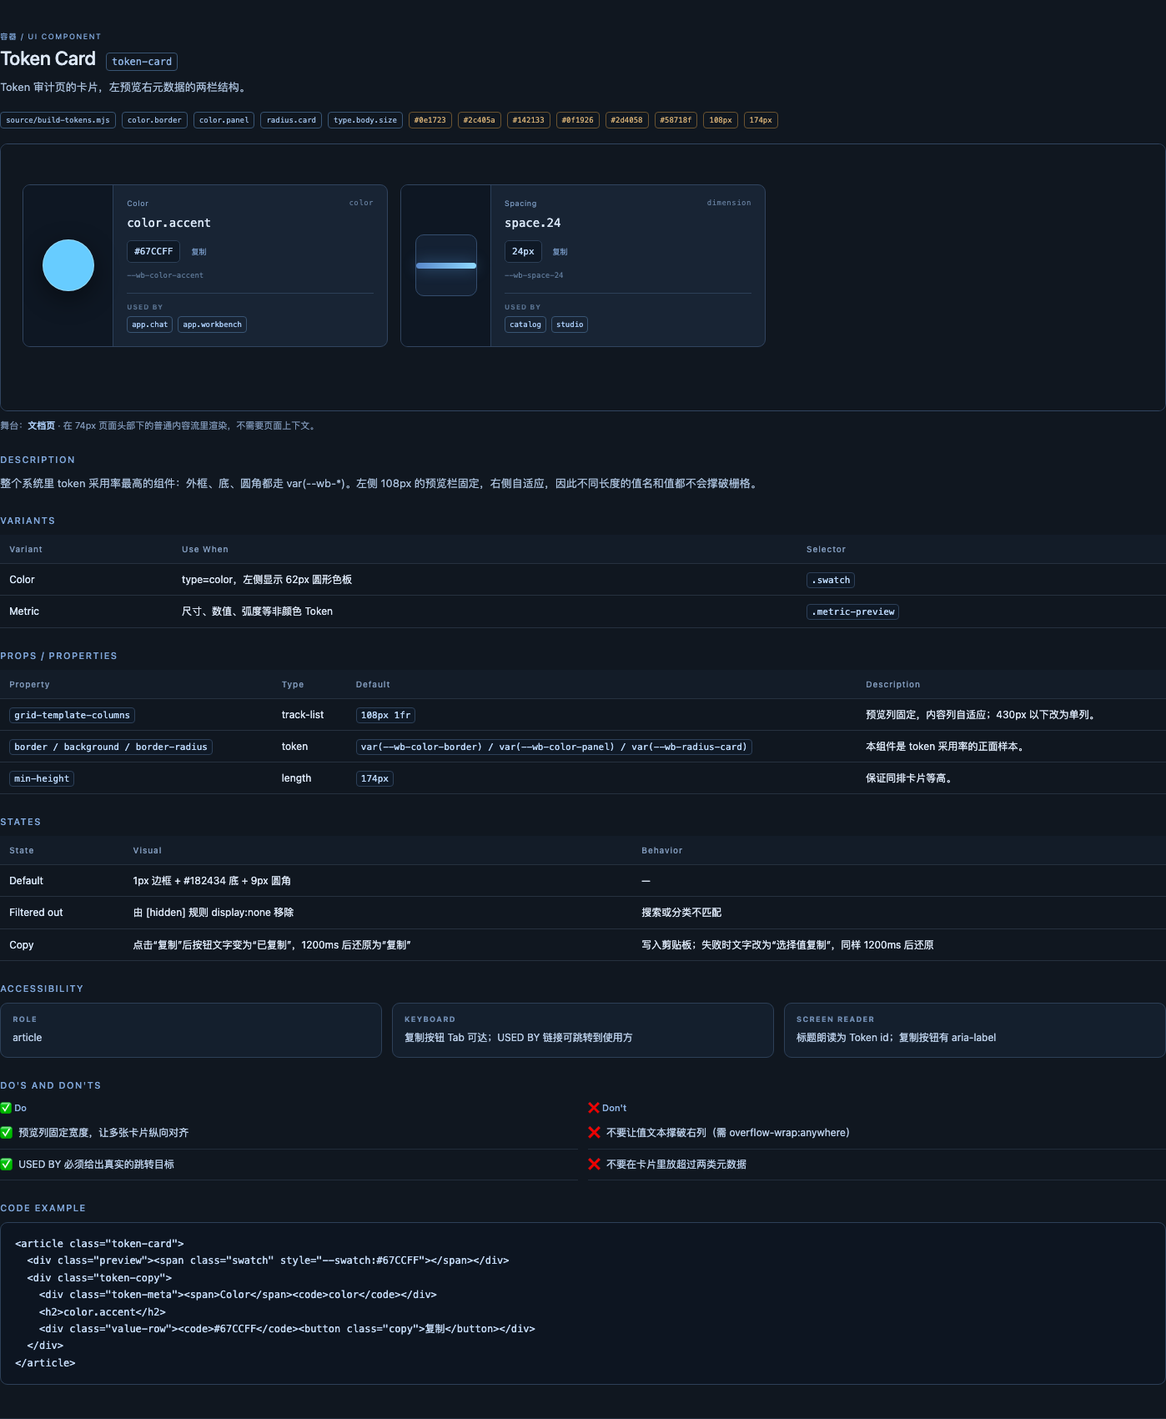
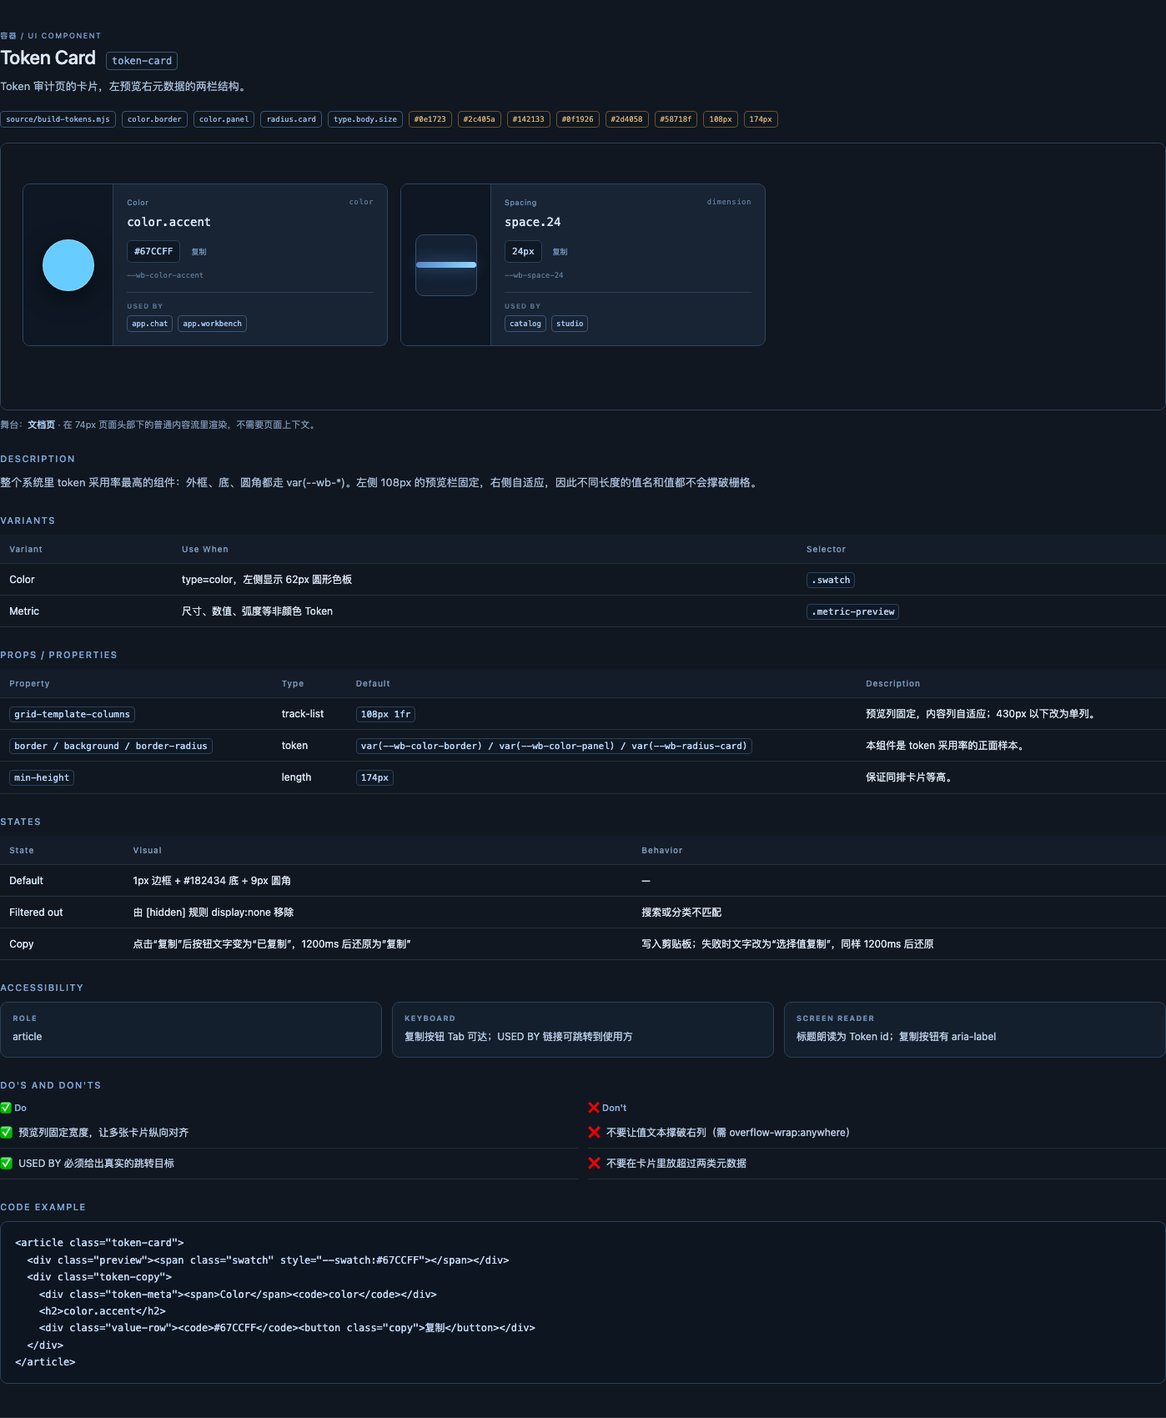
Fix the stale prose the markup change left behind
CodeRabbit caught two contradictions I introduced. When the selected state moved
onto ARIA I updated each component's markup, example and screenReader note, but
not its Props row or Description — so components.html, which is the component
source of truth, published both the new markup and the old claim about it.

- nav-item's Props row was still titled "aria-pressed / .active" and said the
  source does not use aria-current. It never used aria-pressed, and it does use
  aria-current now.
- filter-chip's Description still said it uses .active "while the homepage uses
  aria-pressed". Both use the same combination now.

Sweeping the other components I had touched turned up a third: control-button
claimed to be the only control that writes its pressed state into aria-pressed.
That stopped being true the moment the switcher, the list rows and the chips
gained the attribute. Its actual distinction is narrower and still holds — it is
the only one whose *style rule* keys off the attribute selector rather than
`.active`, which is why its state and semantics cannot drift apart.

The prop text also lost a pair of markdown asterisks: descriptions render through
esc() as plain text, so they would have shown up literally.

Evidence: verify:system 47/47, parity 32/32, check:docs green.

diff --git a/components.html b/components.html
@@ -4464,7 +4464,7 @@ a:focus-visible,button:focus-visible,input:focus-visible{outline:2px solid var(-
   <div class="ds-body">
     <section class="ds-block"><h4>Description</h4><p>首页 .nav 里的按钮，可带 19px 图标。选中态不是颜色变化而是形状变化：未选中项是透明背景的文字按钮，当前项变成有底色的胶囊。这样在复杂的三维背景上，位置感比颜色更可靠。</p></section>
     <section class="ds-block"><h4>Variants</h4><table><thead><tr><th>Variant</th><th>Use When</th><th>Selector</th></tr></thead><tbody><tr><td>Default</td><td>未选中的页面项</td><td><code>.nav button</code></td></tr><tr><td>Active</td><td>当前页面或当前打开的对话框</td><td><code>.nav .active</code></td></tr></tbody></table></section>
-    <section class="ds-block"><h4>Props / Properties</h4><table><thead><tr><th>Property</th><th>Type</th><th>Default</th><th>Description</th></tr></thead><tbody><tr><td><code>height</code></td><td>length</td><td><code>40px</code></td><td>按钮高度，图标用 vertical-align:middle 对齐。</td></tr><tr><td><code>gap</code></td><td>length</td><td><code>34px（导航）/ 10px（图标与文字）</code></td><td>项间距与项内间距是两套值。</td></tr><tr><td><code>border-radius</code></td><td>length</td><td><code>25px</code></td><td>仅选中态生效。</td></tr><tr><td><code>aria-pressed / .active</code></td><td>state</td><td><code>—</code></td><td>源码用 class 表达选中，未使用 aria-current。</td></tr></tbody></table></section>
+    <section class="ds-block"><h4>Props / Properties</h4><table><thead><tr><th>Property</th><th>Type</th><th>Default</th><th>Description</th></tr></thead><tbody><tr><td><code>height</code></td><td>length</td><td><code>40px</code></td><td>按钮高度，图标用 vertical-align:middle 对齐。</td></tr><tr><td><code>gap</code></td><td>length</td><td><code>34px（导航）/ 10px（图标与文字）</code></td><td>项间距与项内间距是两套值。</td></tr><tr><td><code>border-radius</code></td><td>length</td><td><code>25px</code></td><td>仅选中态生效。</td></tr><tr><td><code>aria-current / .active</code></td><td>state</td><td><code>—</code></td><td>class 负责选中样式，当前项另由 aria-current=&quot;page&quot; 暴露给读屏。</td></tr></tbody></table></section>
     <section class="ds-block"><h4>States</h4><table><thead><tr><th>State</th><th>Visual</th><th>Behavior</th></tr></thead><tbody><tr><td>Default</td><td>无背景，文字 14px #f4f5f8（继承 body）</td><td>hover 无背景变化</td></tr><tr><td>Active</td><td>background #282f43，border-radius 25px，min-width 94px 居中，padding 0 24px</td><td>—</td></tr><tr><td>Focus</td><td>outline 2px #a6d6ff，offset 6px</td><td>键盘可达</td></tr></tbody></table></section>
     <section class="ds-block"><h4>Accessibility</h4><div class="ds-a11y">
       <div><b>ROLE</b><p>button（原生 &lt;button&gt;），容器 nav 带 aria-label</p></div>
@@ -4550,7 +4550,7 @@ a:focus-visible,button:focus-visible,input:focus-visible{outline:2px solid var(-
   <div class="ds-frame ds-frame--scene"><div class="ds-stage ds-stage--home ds-pv-control-button"><div class="viewport"><main class="scene" aria-label="Control Button 预览"><div class="controls is-open" style="opacity:1;visibility:visible;transform:none"><p>拖动旋转 · 滚轮缩放<br>点击物体，探索每一层</p><div class="control-buttons"><button>初始视角</button><button aria-pressed="false">自动旋转</button><button aria-pressed="true">模型线框</button><button aria-pressed="false">暂停光流</button></div></div></main></div></div></div>
   <p class="ds-stage-note">舞台：<b>首页场景</b> · 在 1536 × 1024 的 .scene 内按原坐标绝对定位渲染，预览按比例缩放。</p>
   <div class="ds-body">
-    <section class="ds-block"><h4>Description</h4><p>一组可切换的视图开关（自动旋转、模型线框、暂停光流）。这是全站唯一把“按下”状态写进 aria-pressed 的控件，因此样式规则也直接挂在属性选择器上——状态和语义是同一条规则，不会漂移。</p></section>
+    <section class="ds-block"><h4>Description</h4><p>一组可切换的视图开关（自动旋转、模型线框、暂停光流）。全站唯一把选中样式直接挂在属性选择器上的控件（.control-buttons button[aria-pressed=&quot;true&quot;]）；其余控件的选中态一律是 .active 管样式、ARIA 管语义。写进属性选择器意味着状态和语义是同一条规则，不会漂移。</p></section>
     <section class="ds-block"><h4>Variants</h4><table><thead><tr><th>Variant</th><th>Use When</th><th>Selector</th></tr></thead><tbody><tr><td>Toggle</td><td>有开/关两态的视图开关，带 aria-pressed</td><td><code>.control-buttons button[aria-pressed]</code></td></tr><tr><td>Action</td><td>一次性动作（初始视角、进入编辑器），无 aria-pressed</td><td><code>.control-buttons button</code></td></tr></tbody></table></section>
     <section class="ds-block"><h4>Props / Properties</h4><table><thead><tr><th>Property</th><th>Type</th><th>Default</th><th>Description</th></tr></thead><tbody><tr><td><code>padding</code></td><td>length</td><td><code>7px 11px</code></td><td>小尺寸胶囊。</td></tr><tr><td><code>border-radius</code></td><td>length</td><td><code>16px</code></td><td>对应 tokens.js 里的 radius.control，已导出为 --wb-radius-control。</td></tr><tr><td><code>border</code></td><td>border</td><td><code>1px solid #a7c3ea2c</code></td><td>约 17% 透明度的冷色描边。</td></tr><tr><td><code>background</code></td><td>color</td><td><code>#14213460</code></td><td>约 38% 透明度的深蓝，浮在三维场景上方。</td></tr><tr><td><code>aria-pressed</code></td><td>boolean</td><td><code>false</code></td><td>开/关状态，驱动选中样式。同时存在一个 hover 规则，两条规则共用同一样式块。</td></tr></tbody></table></section>
     <section class="ds-block"><h4>States</h4><table><thead><tr><th>State</th><th>Visual</th><th>Behavior</th></tr></thead><tbody><tr><td>Default</td><td>半透明深蓝底 + 17% 冷色描边，文字 11px #b5c9e1</td><td>点击切换</td></tr><tr><td>Hover</td><td>与按下态相同：#335da081 底、#fff 字、#a5c6ff80 边</td><td>过渡 0.2s</td></tr><tr><td>Pressed (aria-pressed=true)</td><td>同 Hover</td><td>保持到再次点击</td></tr><tr><td>Hidden (父级 .controls)</td><td>父级默认 opacity:0 / visibility:hidden / translateY(6px)</td><td>Explore 展开或父级 :focus-within 时恢复</td></tr></tbody></table></section>
@@ -5179,7 +5179,7 @@ a:focus-visible,button:focus-visible,input:focus-visible{outline:2px solid var(-
   <div class="ds-frame"><div class="ds-stage ds-stage--docs ds-pv-filter-chip"><div class="filters" role="group" aria-label="Token 分类"><button class="active" data-group-filter="全部" aria-pressed="true">全部</button><button data-group-filter="Color" aria-pressed="false">Color</button><button data-group-filter="Typography" aria-pressed="false">Typography</button><button data-group-filter="Spacing" aria-pressed="false">Spacing</button><button data-group-filter="3D Material" aria-pressed="false">3D Material</button><button data-group-filter="Camera" aria-pressed="false">Camera</button></div></div></div>
   <p class="ds-stage-note">舞台：<b>文档页</b> · 在 74px 页面头部下的普通内容流里渲染，不需要页面上下文。</p>
   <div class="ds-body">
-    <section class="ds-block"><h4>Description</h4><p>一组互斥的分类筛选钮。和首页 control-button 是同一形态（16px 圆角胶囊）但不同语义：这里用 .active class 表达唯一选中，而首页用 aria-pressed。两处圆角值相同，说明 16px 事实上是这个系统的“胶囊档”。</p></section>
+    <section class="ds-block"><h4>Description</h4><p>一组互斥的分类筛选钮。和首页 control-button 是同一形态（16px 圆角胶囊），选中态也都是 class + aria-pressed 的组合：.active 管样式，aria-pressed 管语义。两处圆角值相同，说明 16px 事实上是这个系统的“胶囊档”。</p></section>
     <section class="ds-block"><h4>Variants</h4><table><thead><tr><th>Variant</th><th>Use When</th><th>Selector</th></tr></thead><tbody><tr><td>Default</td><td>未选中的分类</td><td><code>.filters button</code></td></tr><tr><td>Active</td><td>唯一选中的分类；再点“全部”可复位</td><td><code>.filters button.active</code></td></tr></tbody></table></section>
     <section class="ds-block"><h4>Props / Properties</h4><table><thead><tr><th>Property</th><th>Type</th><th>Default</th><th>Description</th></tr></thead><tbody><tr><td><code>border-radius</code></td><td>length</td><td><code>16px</code></td><td>与首页 .control-buttons button 相同，等于 radius.control。</td></tr><tr><td><code>padding</code></td><td>length</td><td><code>7px 11px</code></td><td>与首页控制按钮完全一致。</td></tr><tr><td><code>font-size</code></td><td>length</td><td><code>10px</code></td><td>比首页的 11px 小一档。</td></tr></tbody></table></section>
     <section class="ds-block"><h4>States</h4><table><thead><tr><th>State</th><th>Visual</th><th>Behavior</th></tr></thead><tbody><tr><td>Default</td><td>1px #38506d 边，底 #162232，文字 #91a9c9</td><td>点击切换分类</td></tr><tr><td>Active</td><td>底 #315986，文字 white，边 #77a8e6</td><td>与搜索框叠加过滤</td></tr><tr><td>Focus</td><td>outline 2px var(--wb-color-accent)，offset 3px</td><td>键盘可达</td></tr></tbody></table></section>

diff --git a/preview/control-button.html b/preview/control-button.html
@@ -150,7 +150,7 @@ body{padding:0}
   <div class="ds-frame ds-frame--scene"><div class="ds-stage ds-stage--home ds-pv-control-button"><div class="viewport"><main class="scene" aria-label="Control Button 预览"><div class="controls is-open" style="opacity:1;visibility:visible;transform:none"><p>拖动旋转 · 滚轮缩放<br>点击物体，探索每一层</p><div class="control-buttons"><button>初始视角</button><button aria-pressed="false">自动旋转</button><button aria-pressed="true">模型线框</button><button aria-pressed="false">暂停光流</button></div></div></main></div></div></div>
   <p class="ds-stage-note">舞台：<b>首页场景</b> · 在 1536 × 1024 的 .scene 内按原坐标绝对定位渲染，预览按比例缩放。</p>
   <div class="ds-body">
-    <section class="ds-block"><h4>Description</h4><p>一组可切换的视图开关（自动旋转、模型线框、暂停光流）。这是全站唯一把“按下”状态写进 aria-pressed 的控件，因此样式规则也直接挂在属性选择器上——状态和语义是同一条规则，不会漂移。</p></section>
+    <section class="ds-block"><h4>Description</h4><p>一组可切换的视图开关（自动旋转、模型线框、暂停光流）。全站唯一把选中样式直接挂在属性选择器上的控件（.control-buttons button[aria-pressed=&quot;true&quot;]）；其余控件的选中态一律是 .active 管样式、ARIA 管语义。写进属性选择器意味着状态和语义是同一条规则，不会漂移。</p></section>
     <section class="ds-block"><h4>Variants</h4><table><thead><tr><th>Variant</th><th>Use When</th><th>Selector</th></tr></thead><tbody><tr><td>Toggle</td><td>有开/关两态的视图开关，带 aria-pressed</td><td><code>.control-buttons button[aria-pressed]</code></td></tr><tr><td>Action</td><td>一次性动作（初始视角、进入编辑器），无 aria-pressed</td><td><code>.control-buttons button</code></td></tr></tbody></table></section>
     <section class="ds-block"><h4>Props / Properties</h4><table><thead><tr><th>Property</th><th>Type</th><th>Default</th><th>Description</th></tr></thead><tbody><tr><td><code>padding</code></td><td>length</td><td><code>7px 11px</code></td><td>小尺寸胶囊。</td></tr><tr><td><code>border-radius</code></td><td>length</td><td><code>16px</code></td><td>对应 tokens.js 里的 radius.control，已导出为 --wb-radius-control。</td></tr><tr><td><code>border</code></td><td>border</td><td><code>1px solid #a7c3ea2c</code></td><td>约 17% 透明度的冷色描边。</td></tr><tr><td><code>background</code></td><td>color</td><td><code>#14213460</code></td><td>约 38% 透明度的深蓝，浮在三维场景上方。</td></tr><tr><td><code>aria-pressed</code></td><td>boolean</td><td><code>false</code></td><td>开/关状态，驱动选中样式。同时存在一个 hover 规则，两条规则共用同一样式块。</td></tr></tbody></table></section>
     <section class="ds-block"><h4>States</h4><table><thead><tr><th>State</th><th>Visual</th><th>Behavior</th></tr></thead><tbody><tr><td>Default</td><td>半透明深蓝底 + 17% 冷色描边，文字 11px #b5c9e1</td><td>点击切换</td></tr><tr><td>Hover</td><td>与按下态相同：#335da081 底、#fff 字、#a5c6ff80 边</td><td>过渡 0.2s</td></tr><tr><td>Pressed (aria-pressed=true)</td><td>同 Hover</td><td>保持到再次点击</td></tr><tr><td>Hidden (父级 .controls)</td><td>父级默认 opacity:0 / visibility:hidden / translateY(6px)</td><td>Explore 展开或父级 :focus-within 时恢复</td></tr></tbody></table></section>

diff --git a/preview/filter-chip.html b/preview/filter-chip.html
@@ -146,7 +146,7 @@ body{padding:0}
   <div class="ds-frame"><div class="ds-stage ds-stage--docs ds-pv-filter-chip"><div class="filters" role="group" aria-label="Token 分类"><button class="active" data-group-filter="全部" aria-pressed="true">全部</button><button data-group-filter="Color" aria-pressed="false">Color</button><button data-group-filter="Typography" aria-pressed="false">Typography</button><button data-group-filter="Spacing" aria-pressed="false">Spacing</button><button data-group-filter="3D Material" aria-pressed="false">3D Material</button><button data-group-filter="Camera" aria-pressed="false">Camera</button></div></div></div>
   <p class="ds-stage-note">舞台：<b>文档页</b> · 在 74px 页面头部下的普通内容流里渲染，不需要页面上下文。</p>
   <div class="ds-body">
-    <section class="ds-block"><h4>Description</h4><p>一组互斥的分类筛选钮。和首页 control-button 是同一形态（16px 圆角胶囊）但不同语义：这里用 .active class 表达唯一选中，而首页用 aria-pressed。两处圆角值相同，说明 16px 事实上是这个系统的“胶囊档”。</p></section>
+    <section class="ds-block"><h4>Description</h4><p>一组互斥的分类筛选钮。和首页 control-button 是同一形态（16px 圆角胶囊），选中态也都是 class + aria-pressed 的组合：.active 管样式，aria-pressed 管语义。两处圆角值相同，说明 16px 事实上是这个系统的“胶囊档”。</p></section>
     <section class="ds-block"><h4>Variants</h4><table><thead><tr><th>Variant</th><th>Use When</th><th>Selector</th></tr></thead><tbody><tr><td>Default</td><td>未选中的分类</td><td><code>.filters button</code></td></tr><tr><td>Active</td><td>唯一选中的分类；再点“全部”可复位</td><td><code>.filters button.active</code></td></tr></tbody></table></section>
     <section class="ds-block"><h4>Props / Properties</h4><table><thead><tr><th>Property</th><th>Type</th><th>Default</th><th>Description</th></tr></thead><tbody><tr><td><code>border-radius</code></td><td>length</td><td><code>16px</code></td><td>与首页 .control-buttons button 相同，等于 radius.control。</td></tr><tr><td><code>padding</code></td><td>length</td><td><code>7px 11px</code></td><td>与首页控制按钮完全一致。</td></tr><tr><td><code>font-size</code></td><td>length</td><td><code>10px</code></td><td>比首页的 11px 小一档。</td></tr></tbody></table></section>
     <section class="ds-block"><h4>States</h4><table><thead><tr><th>State</th><th>Visual</th><th>Behavior</th></tr></thead><tbody><tr><td>Default</td><td>1px #38506d 边，底 #162232，文字 #91a9c9</td><td>点击切换分类</td></tr><tr><td>Active</td><td>底 #315986，文字 white，边 #77a8e6</td><td>与搜索框叠加过滤</td></tr><tr><td>Focus</td><td>outline 2px var(--wb-color-accent)，offset 3px</td><td>键盘可达</td></tr></tbody></table></section>

diff --git a/preview/nav-item.html b/preview/nav-item.html
@@ -151,7 +151,7 @@ body{padding:0}
   <div class="ds-body">
     <section class="ds-block"><h4>Description</h4><p>首页 .nav 里的按钮，可带 19px 图标。选中态不是颜色变化而是形状变化：未选中项是透明背景的文字按钮，当前项变成有底色的胶囊。这样在复杂的三维背景上，位置感比颜色更可靠。</p></section>
     <section class="ds-block"><h4>Variants</h4><table><thead><tr><th>Variant</th><th>Use When</th><th>Selector</th></tr></thead><tbody><tr><td>Default</td><td>未选中的页面项</td><td><code>.nav button</code></td></tr><tr><td>Active</td><td>当前页面或当前打开的对话框</td><td><code>.nav .active</code></td></tr></tbody></table></section>
-    <section class="ds-block"><h4>Props / Properties</h4><table><thead><tr><th>Property</th><th>Type</th><th>Default</th><th>Description</th></tr></thead><tbody><tr><td><code>height</code></td><td>length</td><td><code>40px</code></td><td>按钮高度，图标用 vertical-align:middle 对齐。</td></tr><tr><td><code>gap</code></td><td>length</td><td><code>34px（导航）/ 10px（图标与文字）</code></td><td>项间距与项内间距是两套值。</td></tr><tr><td><code>border-radius</code></td><td>length</td><td><code>25px</code></td><td>仅选中态生效。</td></tr><tr><td><code>aria-pressed / .active</code></td><td>state</td><td><code>—</code></td><td>源码用 class 表达选中，未使用 aria-current。</td></tr></tbody></table></section>
+    <section class="ds-block"><h4>Props / Properties</h4><table><thead><tr><th>Property</th><th>Type</th><th>Default</th><th>Description</th></tr></thead><tbody><tr><td><code>height</code></td><td>length</td><td><code>40px</code></td><td>按钮高度，图标用 vertical-align:middle 对齐。</td></tr><tr><td><code>gap</code></td><td>length</td><td><code>34px（导航）/ 10px（图标与文字）</code></td><td>项间距与项内间距是两套值。</td></tr><tr><td><code>border-radius</code></td><td>length</td><td><code>25px</code></td><td>仅选中态生效。</td></tr><tr><td><code>aria-current / .active</code></td><td>state</td><td><code>—</code></td><td>class 负责选中样式，当前项另由 aria-current=&quot;page&quot; 暴露给读屏。</td></tr></tbody></table></section>
     <section class="ds-block"><h4>States</h4><table><thead><tr><th>State</th><th>Visual</th><th>Behavior</th></tr></thead><tbody><tr><td>Default</td><td>无背景，文字 14px #f4f5f8（继承 body）</td><td>hover 无背景变化</td></tr><tr><td>Active</td><td>background #282f43，border-radius 25px，min-width 94px 居中，padding 0 24px</td><td>—</td></tr><tr><td>Focus</td><td>outline 2px #a6d6ff，offset 6px</td><td>键盘可达</td></tr></tbody></table></section>
     <section class="ds-block"><h4>Accessibility</h4><div class="ds-a11y">
       <div><b>ROLE</b><p>button（原生 &lt;button&gt;），容器 nav 带 aria-label</p></div>

diff --git a/source/system/ui-registry.js b/source/system/ui-registry.js
@@ -98,7 +98,7 @@ export const UI_SYSTEM = {
         { property: "height", type: "length", default: "40px", description: "按钮高度，图标用 vertical-align:middle 对齐。" },
         { property: "gap", type: "length", default: "34px（导航）/ 10px（图标与文字）", description: "项间距与项内间距是两套值。" },
         { property: "border-radius", type: "length", default: "25px", description: "仅选中态生效。" },
-        { property: "aria-pressed / .active", type: "state", default: "—", description: "源码用 class 表达选中，未使用 aria-current。" },
+        { property: "aria-current / .active", type: "state", default: "—", description: "class 负责选中样式，当前项另由 aria-current=\"page\" 暴露给读屏。" },
       ],
       states: [
         { state: "Default", visual: "无背景，文字 14px #f4f5f8（继承 body）", behavior: "hover 无背景变化" },
@@ -205,7 +205,7 @@ export const UI_SYSTEM = {
       stage: "home",
       summary: "首页视角工具里的小胶囊按钮，16px 圆角，带 aria-pressed 开关态。",
       description:
-        "一组可切换的视图开关（自动旋转、模型线框、暂停光流）。这是全站唯一把“按下”状态写进 aria-pressed 的控件，因此样式规则也直接挂在属性选择器上——状态和语义是同一条规则，不会漂移。",
+        "一组可切换的视图开关（自动旋转、模型线框、暂停光流）。全站唯一把选中样式直接挂在属性选择器上的控件（.control-buttons button[aria-pressed=\"true\"]）；其余控件的选中态一律是 .active 管样式、ARIA 管语义。写进属性选择器意味着状态和语义是同一条规则，不会漂移。",
       sources: ["source/shell.html"],
       selectors: [
         ".controls",
@@ -1176,7 +1176,7 @@ export const UI_SYSTEM = {
       stage: "docs",
       summary: "Token 审计页的分类筛选胶囊，选中态填实。",
       description:
-        "一组互斥的分类筛选钮。和首页 control-button 是同一形态（16px 圆角胶囊）但不同语义：这里用 .active class 表达唯一选中，而首页用 aria-pressed。两处圆角值相同，说明 16px 事实上是这个系统的“胶囊档”。",
+        "一组互斥的分类筛选钮。和首页 control-button 是同一形态（16px 圆角胶囊），选中态也都是 class + aria-pressed 的组合：.active 管样式，aria-pressed 管语义。两处圆角值相同，说明 16px 事实上是这个系统的“胶囊档”。",
       sources: ["source/build-tokens.mjs"],
       selectors: [".filters", ".filters button", ".filters button.active", ".tools", ".search"],
       variants: [
